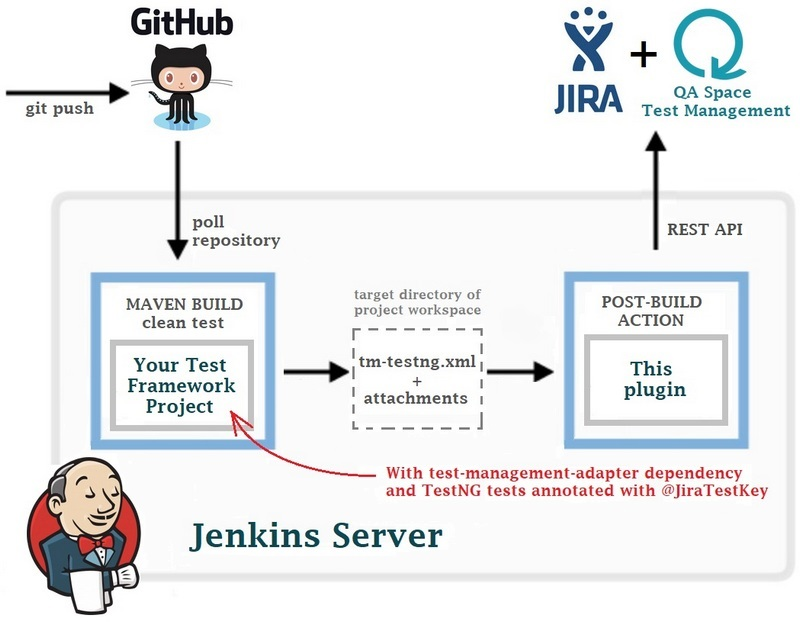
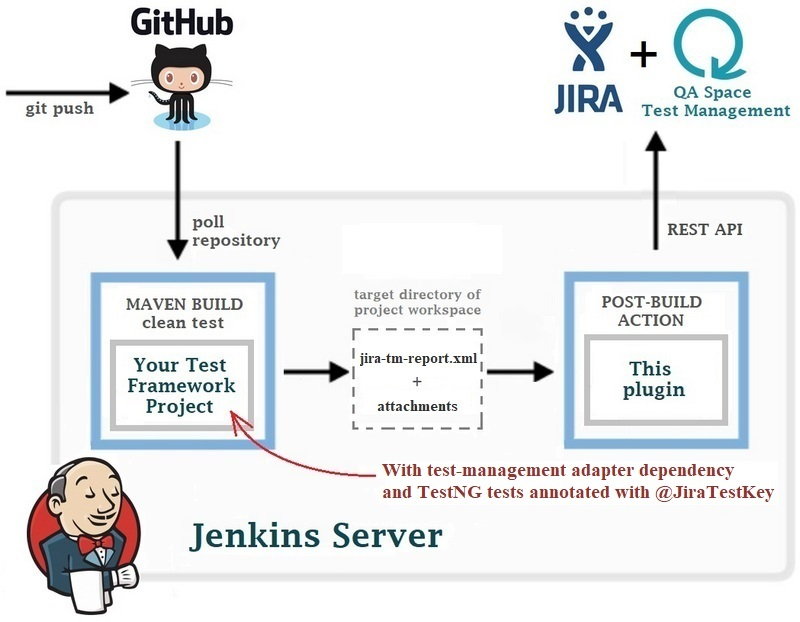
result file name changed to "jira-tm-report.xml" to provide cross-platform plugin usability

Changed region(s): [[0.4688, 0.7331, 0.9688, 0.8248], [0.4375, 0.5498, 0.5938, 0.672], [0.7812, 0.5804, 0.875, 0.6415]]

diff --git a/src/main/java/org/jenkinsci/plugins/Constants.java b/src/main/java/org/jenkinsci/plugins/Constants.java
@@ -1,6 +1,6 @@
 package org.jenkinsci.plugins;
 
 public class Constants {
-    public static final String TEST_RESULTS_FILE_PATH = "/target/tm-testng.xml";
+    public static final String TEST_RESULTS_FILE_PATH = "/target/jira-tm-report.xml";
     public static final String ENV_VARS_WORKSPACE = "${WORKSPACE}";
 }

diff --git a/README.md b/README.md
@@ -3,13 +3,13 @@ This plugin updates Jira issues with basic build information and useful artifact
 
 ## How it works with Java
 
-The key thing is that this plugin are working in tandem with [Test Management Adapter] which is the Maven dependency providing data gathering possibilities for your test framework. This plugin is responsible for `tm-testng.xml` parsing, report generating in accordance with [Jira Text Formatting Notation] and its publishing in corresponding issue comments via REST API.
+This plugin works in tandem with [Test Management Adapter] which is the Maven dependency providing data gathering possibilities for your test framework. This plugin is responsible for `jira-tm-report.xml` parsing, report generating in accordance with [Jira Text Formatting Notation] and its publishing in corresponding issue comments via REST API.
 
 ![Scheme](/images/readme_main_scheme.jpg)
 
 ## How it works with .NET
 
-This plugin are working in tandem with [Test Management Adapter for .NET] wich provides data gathering possibilities for your test framework. This plugin is responsible for `tm-testng.xml` parsing, report generating in accordance with [Jira Text Formatting Notation] and its publishing in corresponding issue comments via REST API.
+This plugin works in tandem with [Test Management Adapter for .NET] which provides data gathering possibilities for your test framework. This plugin is responsible for `jira-tm-report.xml` parsing, report generating in accordance with [Jira Text Formatting Notation] and its publishing in corresponding issue comments via REST API.
 
 ![Scheme](/images/readme_main_scheme_NET.jpg)
 
